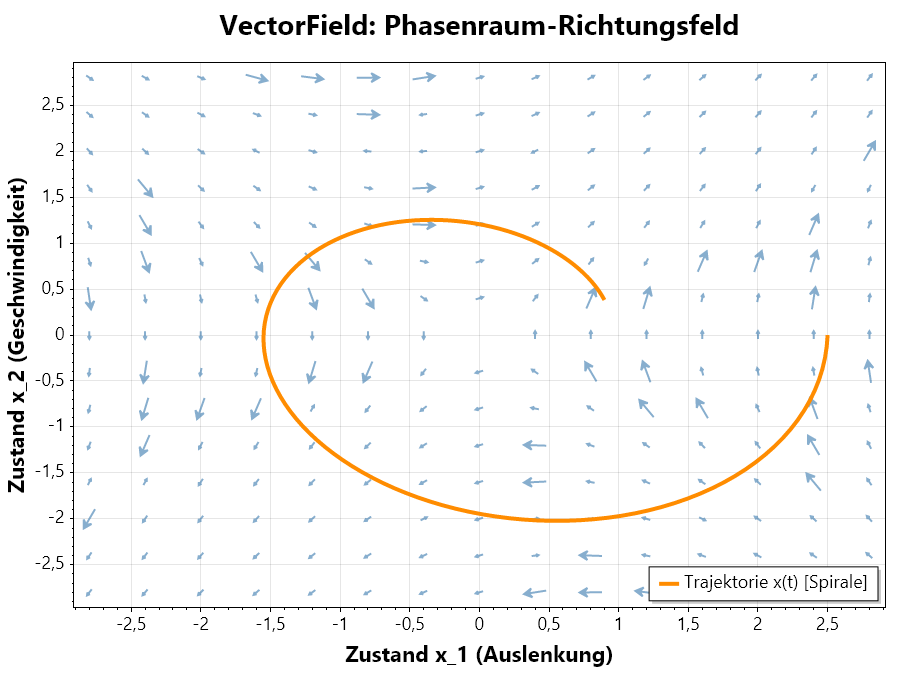
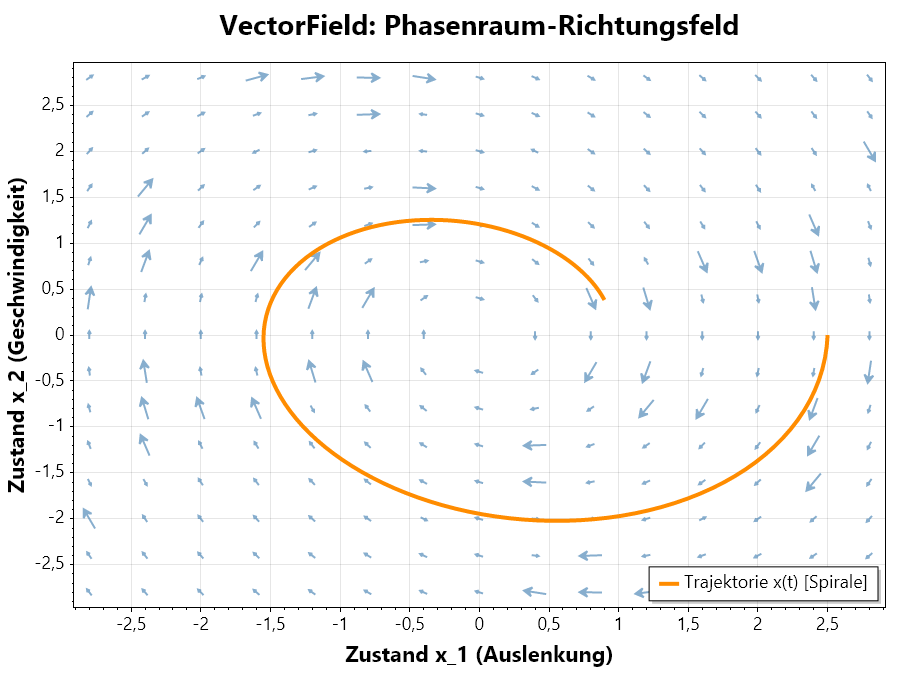
Fix(Vektorfeld): Y-Invertierung fuer ScottPlot 5 Bildschirmkoordinaten behoben - Vektorfeld ist nun exakt tangential zur Trajektorie

diff --git a/Werkzeuge/GrafikGenerator/Chapter04Graphics.cs b/Werkzeuge/GrafikGenerator/Chapter04Graphics.cs
@@ -303,7 +303,9 @@ namespace GrafikGenerator
                     {
                         double scale = 0.22 / len;
                         var coord = new Coordinates(x1, x2);
-                        var dir = new System.Numerics.Vector2((float)(dx1 * scale), (float)(dx2 * scale));
+                        // Beachte: In ScottPlot 5 verläuft die Y-Komponente von Vector2 im Bildschirmkoordinatensystem (nach unten positiv),
+                        // daher muss dx2 für die mathematische Y-Achse invertiert werden (-dx2).
+                        var dir = new System.Numerics.Vector2((float)(dx1 * scale), (float)(-dx2 * scale));
                         vectors.Add(new RootedCoordinateVector(coord, dir));
                     }
                 }

diff --git a/Export/README.md b/Export/README.md
@@ -3,7 +3,7 @@
 **Lehrveranstaltung:** Systemsimulation / Digitaler Zwilling  
 **Studiengang:** B.Sc. Automatisierungstechnik, 5. Semester  
 **Institution:** Fachhochschule Oberösterreich – Campus Wels  
-**Zuletzt generiert:** 2026-11-03 14:57:32 UTC  
+**Zuletzt generiert:** 2026-11-03 15:03:47 UTC  
 
 Dieses Verzeichnis enthält alle druckreifen, vollständigen PDF-Unterlagen für den Upload auf Moodle.
 
@@ -15,7 +15,7 @@ Dieses Verzeichnis enthält alle druckreifen, vollständigen PDF-Unterlagen für
 | **01** | Einführung | [`01_Einfuehrung_Folien.pdf`](Folien/01_Einfuehrung_Folien.pdf) | 3.8 MB | `Folien/01_Einführung/Folien.pdf` |
 | **02** | Visualisierung 2D Pixel | [`02_Visualisierung_2D_Pixel_Folien.pdf`](Folien/02_Visualisierung_2D_Pixel_Folien.pdf) | 8.56 MB | `Folien/02_Visualisierung_2D_Pixel/Folien.pdf` |
 | **03** | Visualisierung 2D Vektor | [`03_Visualisierung_2D_Vektor_Folien.pdf`](Folien/03_Visualisierung_2D_Vektor_Folien.pdf) | 4.41 MB | `Folien/03_Visualisierung_2D_Vektor/Folien.pdf` |
-| **04** | Visualisierung 2D Diagramme | [`04_Visualisierung_2D_Diagramme_Folien.pdf`](Folien/04_Visualisierung_2D_Diagramme_Folien.pdf) | 5.17 MB | `Folien/04_Visualisierung_2D_Diagramme/Folien.pdf` |
+| **04** | Visualisierung 2D Diagramme | [`04_Visualisierung_2D_Diagramme_Folien.pdf`](Folien/04_Visualisierung_2D_Diagramme_Folien.pdf) | 5.16 MB | `Folien/04_Visualisierung_2D_Diagramme/Folien.pdf` |
 | **05** | Visualisierung 3D OpenGL | [`05_Visualisierung_3D_OpenGL_Folien.pdf`](Folien/05_Visualisierung_3D_OpenGL_Folien.pdf) | 3.83 MB | `Folien/05_Visualisierung_3D_OpenGL/Folien.pdf` |
 | **06** | Multithreading | [`06_Multithreading_Folien.pdf`](Folien/06_Multithreading_Folien.pdf) | 1.32 MB | `Folien/06_Multithreading/Folien.pdf` |
 | **07** | Statische Modelle | [`07_Statische_Modelle_Folien.pdf`](Folien/07_Statische_Modelle_Folien.pdf) | 1.18 MB | `Folien/07_Statische_Modelle/Folien.pdf` |

diff --git a/Folien/04_Visualisierung_2D_Diagramme/Folien.md b/Folien/04_Visualisierung_2D_Diagramme/Folien.md
@@ -621,7 +621,7 @@ C#-Architektur zur Erzeugung von 2D-Vektorfeldern in ScottPlot 5:
 
 - **Gitterpunkte:** Schleifen über die Koordinaten `x1` und `x2` spannen die diskrete Phasenebene auf.
 - **Ableitungsvektoren:** Die zeitlichen Ableitungen `dx1` und `dx2` ergeben die Vektorlänge `len`.
-- **Normierung:** Vektor `dir` wird auf einheitliche Länge skaliert, um Überlappungen benachbarter Pfeile zu vermeiden.
+- **Y-Invertierung:** SkiaSharp nutzt ein Bildschirmkoordinatensystem ($+y$ nach unten); Vektor `dir` wird daher mit `-dx2` übergeben.
 - **Überlagerung:** `Plot.Add.VectorField(vectors)` visualisiert das Gitter im Diagrammhintergrund.
 
 </div>
@@ -636,7 +636,7 @@ for (double x1 = -3; x1 <= 3; x1 += 0.4) {
     double len = Math.Sqrt(dx1*dx1 + dx2*dx2);
     var dir = new Vector2(
       (float)(dx1 / len * 0.22),
-      (float)(dx2 / len * 0.22));
+      (float)(-dx2 / len * 0.22));
     vectors.Add(new RootedCoordinateVector(
       new Coordinates(x1, x2), dir));
   }
